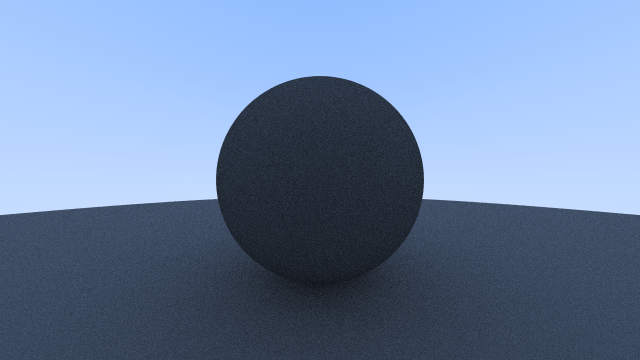
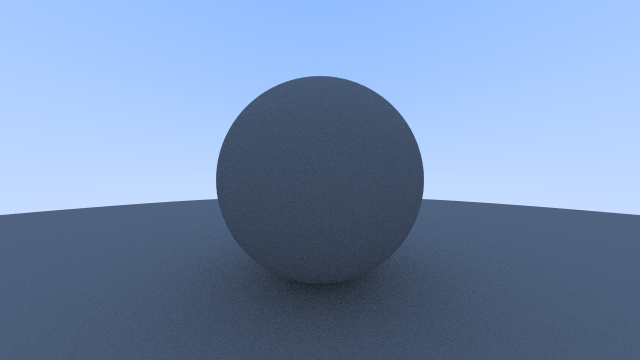
DAY 1 (start)

diff --git a/My project/camera.h b/My project/camera.h
@@ -39,9 +39,9 @@ public:
                 pixel_color *= normalizeCoefficient;
                 // Saving color
                 static const interval intensity(0, 0.999999);
-                pixels[(row * image_width + column) * 4] = static_cast<int>(intensity.clamp(pixel_color.r()) * 256);
-                pixels[(row * image_width + column) * 4 + 1] = static_cast<int>(intensity.clamp(pixel_color.g()) * 256);
-                pixels[(row * image_width + column) * 4 + 2] = static_cast<int>(intensity.clamp(pixel_color.b()) * 256);
+                pixels[(row * image_width + column) * 4] = static_cast<int>(intensity.clamp(linear_to_gamma(pixel_color.r())) * 256);
+                pixels[(row * image_width + column) * 4 + 1] = static_cast<int>(intensity.clamp(linear_to_gamma(pixel_color.g())) * 256);
+                pixels[(row * image_width + column) * 4 + 2] = static_cast<int>(intensity.clamp(linear_to_gamma(pixel_color.b())) * 256);
                 pixels[(row * image_width + column) * 4 + 3] = 255;
             }
         }
@@ -97,8 +97,8 @@ private:
 
         hit_record rec;
 
-        if (world.hit(r, interval(0, infinity), rec)) {
-            vec3 direction = random_on_hemisphere(rec.normal);
+        if (world.hit(r, interval(0.000001, infinity), rec)) {
+            vec3 direction = rec.normal + random_unit_vector();
             return 0.5 * ray_color(ray(rec.point, direction), world, bounce - 1);
         }
 

diff --git a/My project/color.h b/My project/color.h
@@ -7,6 +7,10 @@
 
 using color = vec3;
 
+inline double linear_to_gamma(double color_component) {
+    return sqrt(color_component);
+}
+
 //void write_color(std::ostream &out, color pixel_color) {
 //    // Write the translated [0,255] value of each color component.
 //    out << static_cast<int>(255.99999f * pixel_color.x()) << ' '

diff --git a/My project/main.cpp b/My project/main.cpp
@@ -21,7 +21,7 @@ int main() {
     cam.aspect_ratio = 16.0 / 9.0;
     cam.image_width = 640;
     cam.samples_per_pixel = 100;
-    cam.max_bounce = 100;
+    cam.max_bounce = 50;
 
     cam.center = point3(0, 0, 0);
 
